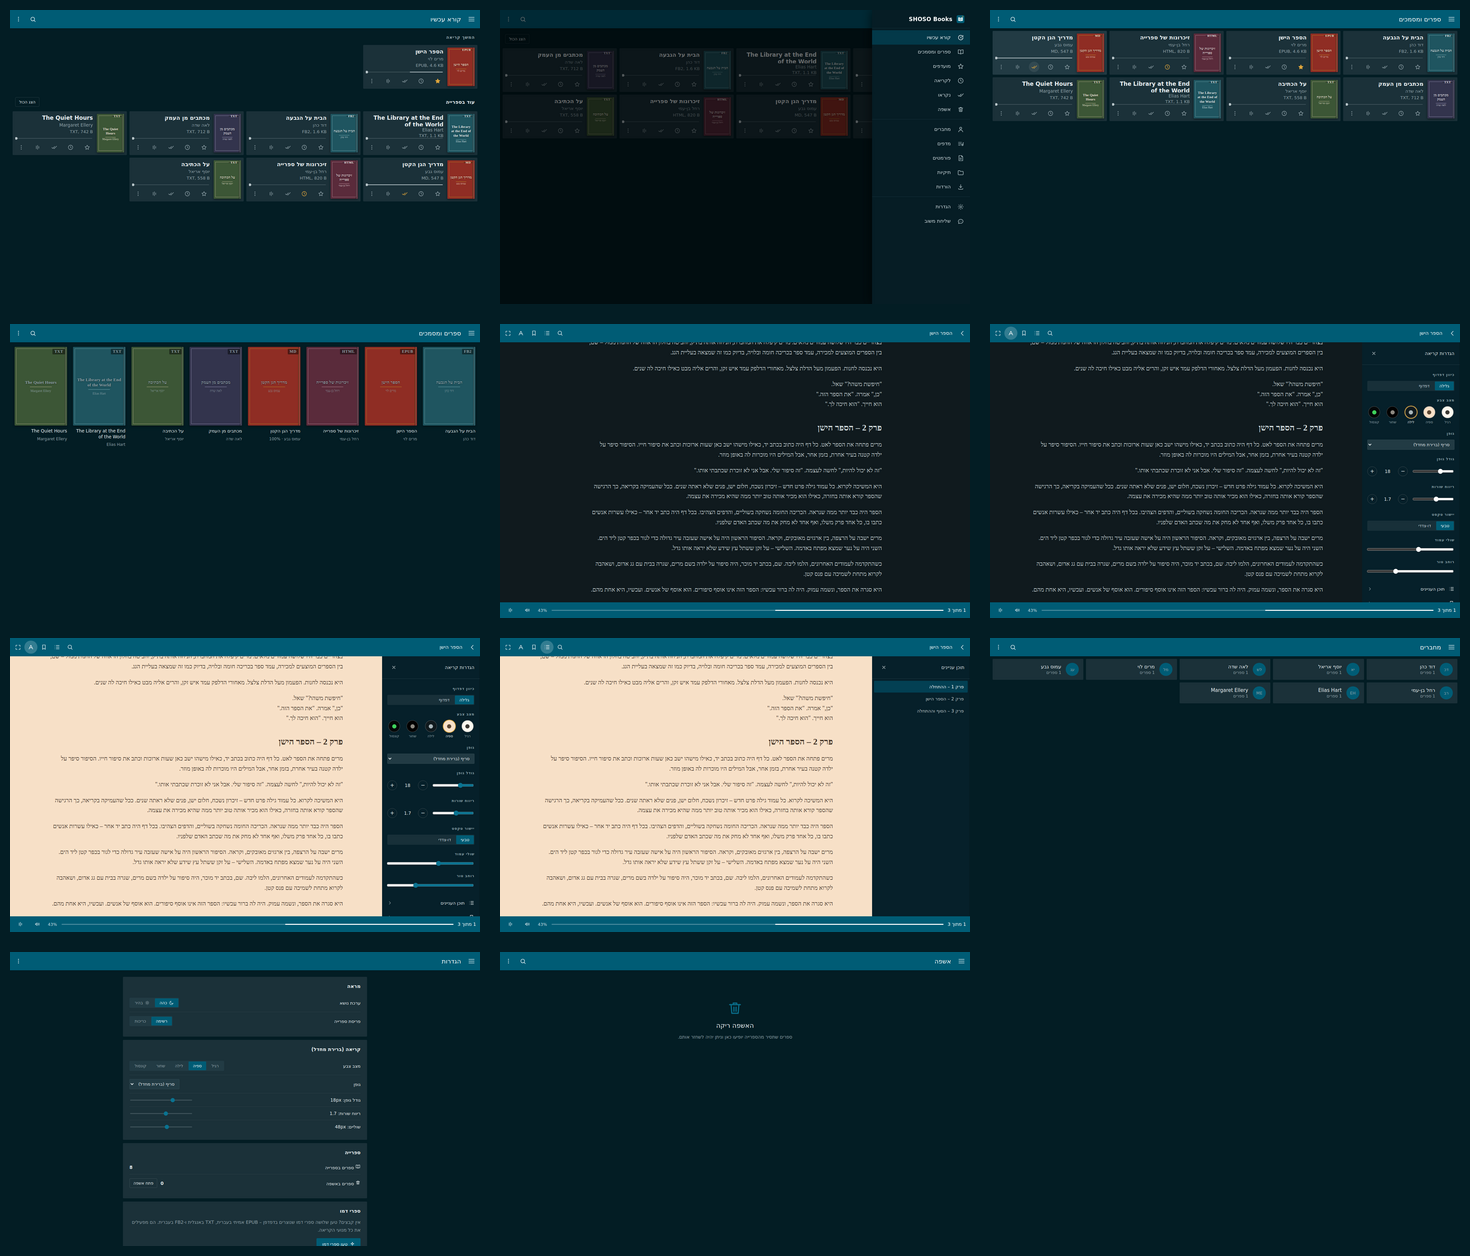
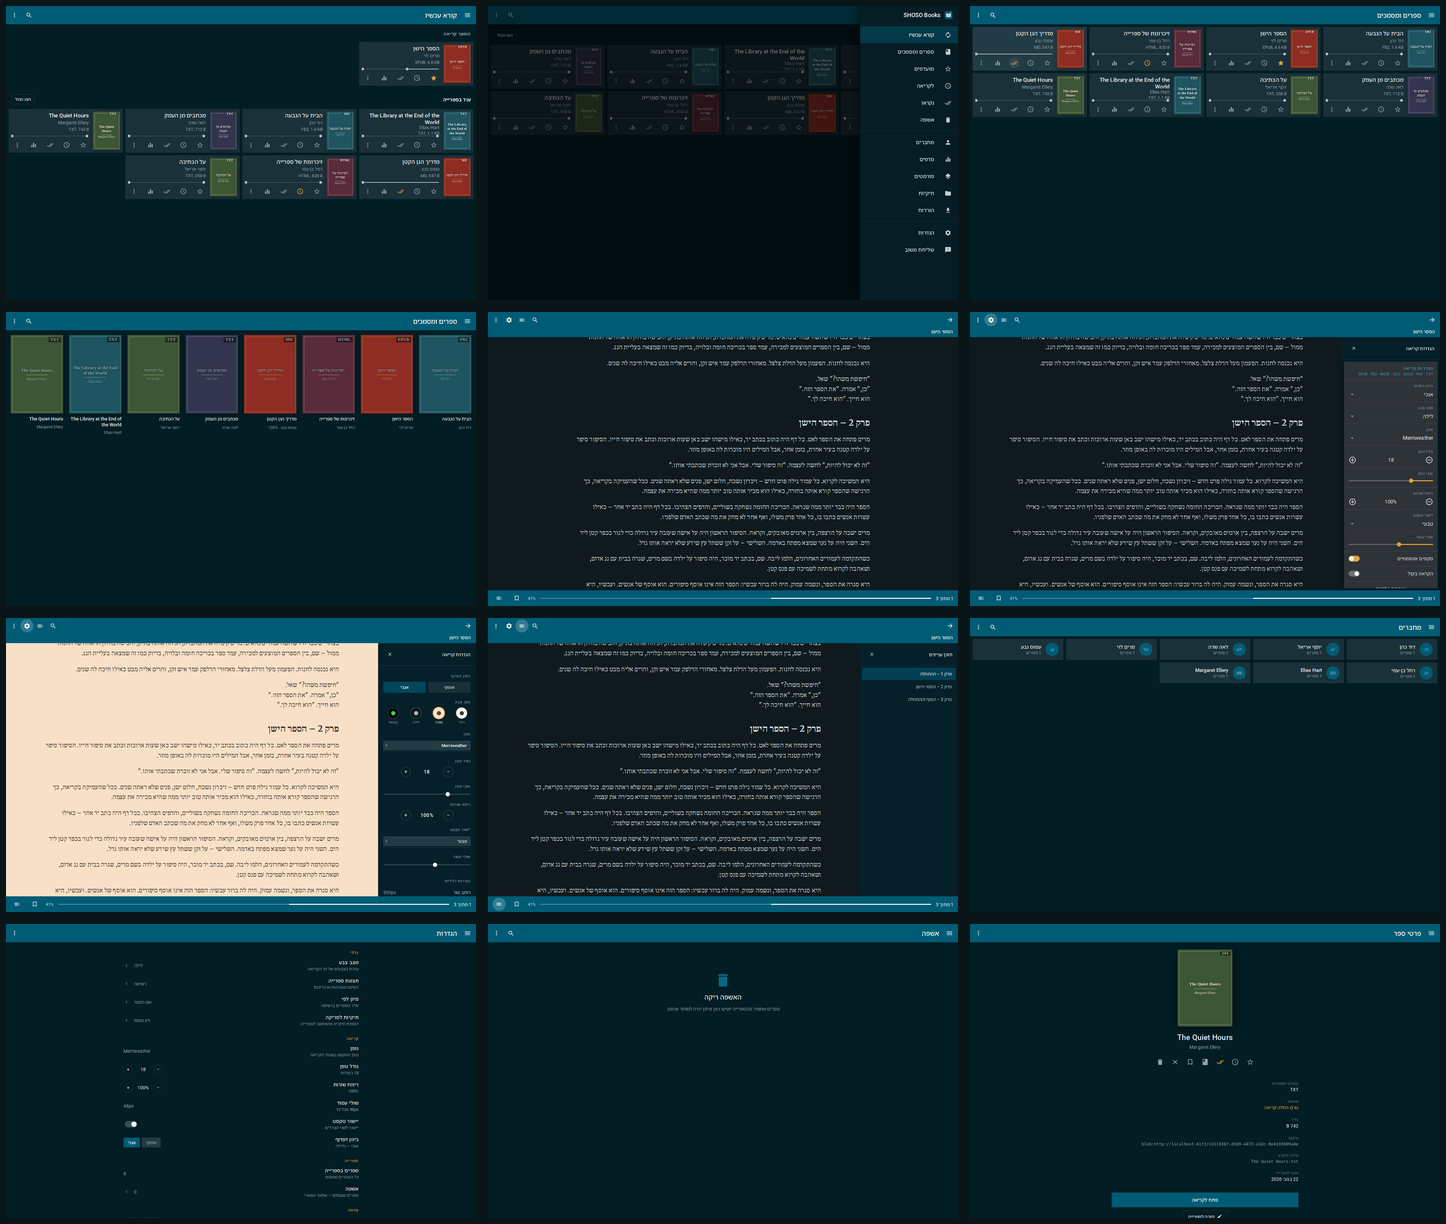
polish(detail): hide blob: locations in the metadata list

diff --git a/src/views/BookDetail.jsx b/src/views/BookDetail.jsx
@@ -92,7 +92,7 @@ export default function BookDetail() {
         <Meta label="קבצים ומסמכים" value={book.format} />
         <Meta label="סטטוס" value={status} gold={percent < 100} />
         <Meta label="גודל" value={formatSize(book.size)} />
-        <Meta label="מיקום" value={book.path} mono />
+        {book.path && !book.path.startsWith("blob:") && <Meta label="מיקום" value={book.path} mono />}
         <Meta label="מזהה הקובץ" value={book.fileName} mono />
         <Meta label="נוסף לספרייה" value={`${formatDate(book.addedAt)}${progress?.updatedAt ? ` · ${formatRelative(progress.updatedAt)}` : ''}`} />
         {book.chapters > 0 && <Meta label="פרקים" value={`${book.chapters}`} />}
